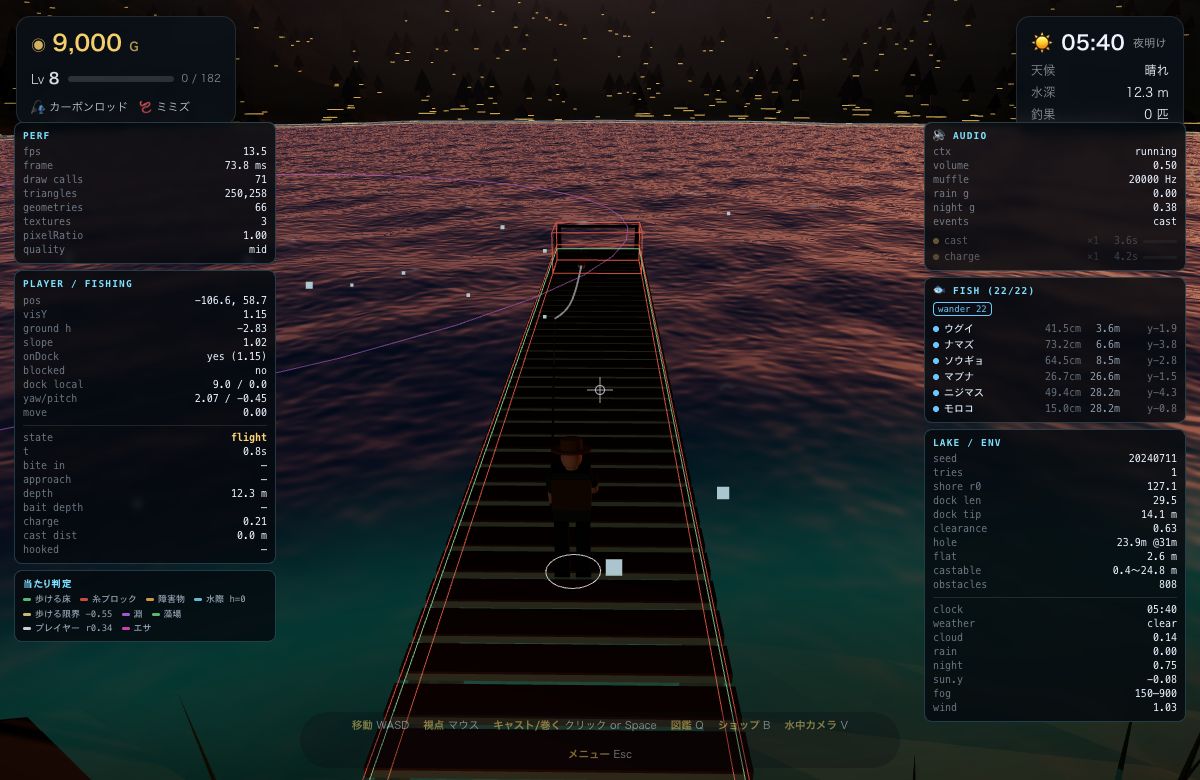
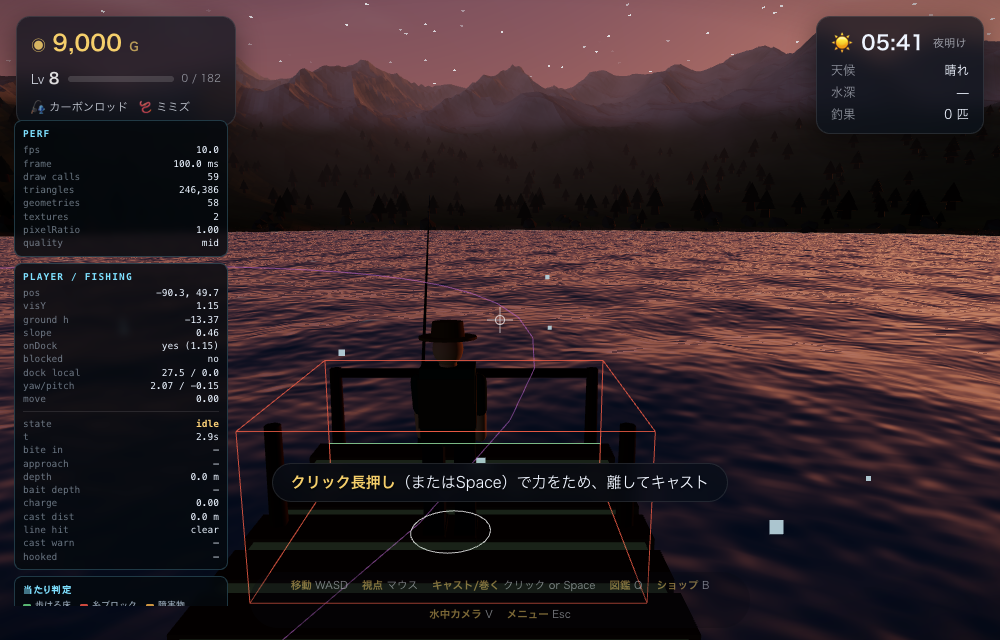
fix: デバッグ表示の障害物の円が壊れていた（配列の読み出し幅の不一致）
糸の判定用に障害物へ上端の高さを持たせたとき、terrain.obstacles は
1件 4要素 [x, z, r, top] になったのに、debug.js の描画ループが 3要素刻みの
ままだった。そのため 2件目以降が

  中心 = (top, 次のx) / 半径 = 次のz（最大 ±150m）

というデタラメな巨大円になり、画面全体が黄色い線で埋まっていた。
判定そのもの（blockedAt / obstacleTopAt）はグリッドの索引経由で
正しく読めていたため、当たり判定の挙動には影響なし（再検証済み）。

- 読み出しを 4要素刻みに修正、件数も /4 に
- あわせて表示を近傍のみに制限（障害物 48m 以内・等高線 140m 以内、2.5Hz で更新）。
  808個すべてを常時描くと線で埋まって読めないため。最大 140 円までの
  固定バッファに詰めて 1 ドローコールを維持
- パネルに「表示数 / 総数」を出し、凡例に表示範囲を明記

検証: 障害物 808件で最大半径 3.38m（正常値）、描画は 17〜30 円に。
当たり判定の回帰テストも再実行し、中心 121/121 進入不可・閉じ込めなし・
糸と桟橋の判定 4/4 正しいことを確認。

diff --git a/src/debug.js b/src/debug.js
@@ -88,7 +88,8 @@ export class Debug {
       row('#ffb84d', '障害物') + row('#7ee0ff', '水際 h=0') +
       row('#ffe08a', '歩ける限界 −0.55') + row('#c86bff', '淵') +
       row('#6de08a', '藻場') + row('#ffffff', 'プレイヤー r0.34') +
-      row('#ff4dd2', 'エサ') + '</div>';
+      row('#ff4dd2', 'エサ') + '</div>'
+      + '<div style="font-size:9px;opacity:.5;margin-top:3px">障害物は 48m 以内・等高線は 140m 以内のみ表示</div>';
     function row(c, t) {
       return `<span class="dbg-lg"><i style="background:${c}"></i>${t}</span>`;
     }
@@ -145,28 +146,24 @@ export class Debug {
     addBox(L / 2, Y - 0.12, L, 0.60);          // 床（桁を含む）
     addBox(L - 1.15, Y + 0.315, 2.3, 1.47);    // 先端の手すり
 
-    /* --- 障害物の円 --- */
-    const obs = t.obstacles;
-    const SEG = 14;
-    const pts = [];
-    for (let i = 0; i < obs.length; i += 3) {
-      const ox = obs[i], oz = obs[i + 1], or = obs[i + 2];
-      const oy = Math.max(t.heightAt(ox, oz), 0) + 0.08;
-      for (let k = 0; k < SEG; k++) {
-        const a0 = (k / SEG) * TAU, a1 = ((k + 1) / SEG) * TAU;
-        pts.push(ox + Math.cos(a0) * or, oy, oz + Math.sin(a0) * or);
-        pts.push(ox + Math.cos(a1) * or, oy, oz + Math.sin(a1) * or);
-      }
-    }
+    /* --- 障害物の円（近くのものだけ毎回作り直す） ---
+       obstacles は 1件 4要素 [x, z, r, top] で並んでいる */
+    this.obstacleCount = t.obstacles.length / 4;
+    this._obsSeg = 14;
+    this._obsMax = 140;
+    const obsBuf = new Float32Array(this._obsMax * this._obsSeg * 2 * 3);
     const obsGeo = new THREE.BufferGeometry();
-    obsGeo.setAttribute('position', new THREE.BufferAttribute(new Float32Array(pts), 3));
-    root.add(new THREE.LineSegments(obsGeo, lineMat(0xffb84d, 0.75)));
-    this.obstacleCount = obs.length / 3;
+    obsGeo.setAttribute('position', new THREE.BufferAttribute(obsBuf, 3));
+    obsGeo.setDrawRange(0, 0);
+    this.obsLines = new THREE.LineSegments(obsGeo, lineMat(0xffb84d, 0.8));
+    this.obsLines.frustumCulled = false;
+    root.add(this.obsLines);
+    this._obsNear = 0;
 
-    /* --- 水際と歩ける限界の等高線 --- */
-    const contour = (targetH, color) => {
-      const N = 300, arr = [];
-      let prev = null;
+    /* --- 水際と歩ける限界の等高線（近い区間だけ描く） --- */
+    const makeContour = (targetH, color) => {
+      const N = 320;
+      const pts = new Float32Array((N + 1) * 3);
       for (let i = 0; i <= N; i++) {
         const ang = (i / N) * TAU;
         const cx = Math.cos(ang), cz = Math.sin(ang);
@@ -176,16 +173,20 @@ export class Debug {
           if (t.heightAt(cx * mid, cz * mid) < targetH) lo = mid; else hi = mid;
         }
         const r = (lo + hi) / 2;
-        const cur = [cx * r, targetH + 0.06, cz * r];
-        if (prev) arr.push(...prev, ...cur);
-        prev = cur;
+        pts[i * 3] = cx * r;
+        pts[i * 3 + 1] = targetH + 0.08;
+        pts[i * 3 + 2] = cz * r;
       }
+      const buf = new Float32Array(N * 2 * 3);
       const geo = new THREE.BufferGeometry();
-      geo.setAttribute('position', new THREE.BufferAttribute(new Float32Array(arr), 3));
-      root.add(new THREE.LineSegments(geo, lineMat(color, 0.6)));
+      geo.setAttribute('position', new THREE.BufferAttribute(buf, 3));
+      geo.setDrawRange(0, 0);
+      const mesh = new THREE.LineSegments(geo, lineMat(color, 0.55));
+      mesh.frustumCulled = false;
+      root.add(mesh);
+      return { pts, buf, mesh, n: N };
     };
-    contour(0, 0x7ee0ff);        // 水際
-    contour(-0.55, 0xffe08a);    // 歩ける限界（これより深いと入れない）
+    this._contours = [makeContour(0, 0x7ee0ff), makeContour(-0.55, 0xffe08a)];
 
     /* --- 地形フィーチャ --- */
     const featRing = (f, color) => {
@@ -235,6 +236,57 @@ export class Debug {
 
     root.traverse((o) => { o.renderOrder = 900; });
     this.built = true;
+    this._rebuildNear();
+  }
+
+  /**
+   * 近くの当たり判定だけを描き直す。
+   * 全部（岩・木 800個近く）を常に描くと画面が線で埋まって読めないため。
+   */
+  _rebuildNear() {
+    const g = this.game;
+    const t = g.terrain;
+    const px = g.pos.x, pz = g.pos.z;
+
+    /* 障害物：半径 48m 以内 */
+    const o = t.obstacles;
+    const SEG = this._obsSeg;
+    const arr = this.obsLines.geometry.attributes.position.array;
+    const R2 = 48 * 48;
+    let n = 0;
+    for (let i = 0; i < o.length && n < this._obsMax; i += 4) {
+      const dx = o[i] - px, dz = o[i + 1] - pz;
+      if (dx * dx + dz * dz > R2) continue;
+      const ox = o[i], oz = o[i + 1], or = o[i + 2];
+      const oy = Math.max(t.heightAt(ox, oz), 0) + 0.1;
+      let w = n * SEG * 6;
+      for (let k = 0; k < SEG; k++) {
+        const a0 = (k / SEG) * TAU, a1 = ((k + 1) / SEG) * TAU;
+        arr[w++] = ox + Math.cos(a0) * or; arr[w++] = oy; arr[w++] = oz + Math.sin(a0) * or;
+        arr[w++] = ox + Math.cos(a1) * or; arr[w++] = oy; arr[w++] = oz + Math.sin(a1) * or;
+      }
+      n++;
+    }
+    this._obsNear = n;
+    this.obsLines.geometry.setDrawRange(0, n * SEG * 2);
+    this.obsLines.geometry.attributes.position.needsUpdate = true;
+
+    /* 等高線：半径 140m 以内の区間だけ */
+    const CR2 = 140 * 140;
+    for (const c of this._contours) {
+      const p = c.pts, b = c.buf;
+      let m = 0;
+      for (let i = 0; i < c.n; i++) {
+        const x0 = p[i * 3], z0 = p[i * 3 + 2];
+        const x1 = p[(i + 1) * 3], z1 = p[(i + 1) * 3 + 2];
+        const mx = (x0 + x1) * 0.5 - px, mz = (z0 + z1) * 0.5 - pz;
+        if (mx * mx + mz * mz > CR2) continue;
+        b[m++] = x0; b[m++] = p[i * 3 + 1]; b[m++] = z0;
+        b[m++] = x1; b[m++] = p[(i + 1) * 3 + 1]; b[m++] = z1;
+      }
+      c.mesh.geometry.setDrawRange(0, m / 3);
+      c.mesh.geometry.attributes.position.needsUpdate = true;
+    }
   }
 
   /* ---------------- トグル ---------------- */
@@ -306,6 +358,13 @@ export class Debug {
       col.needsUpdate = true;
     }
 
+    /* --- 近くの当たり判定は 2.5Hz で作り直す --- */
+    this._nearAcc = (this._nearAcc || 0) + dt;
+    if (this._nearAcc > 0.4) {
+      this._nearAcc = 0;
+      this._rebuildNear();
+    }
+
     /* --- パネルは 10Hz --- */
     this._acc += dt;
     if (this._acc < 0.1) return;
@@ -353,7 +412,7 @@ ${kv('seed', g.state.seed)}${kv('tries', g.lakeTries || 1)}
 ${kv('shore r0', fmt1(S.shoreR0 || 0))}${kv('dock len', fmt1(t._dockLen))}
 ${kv('dock tip', fmt1(S.dockTipDepth || 0) + ' m')}${kv('clearance', fmt2(S.dockClearance || 0))}
 ${kv('hole', `${fmt1(S.holeDepth || 0)}m @${(S.holeFromDock || 0).toFixed(0)}m`)}${kv('flat', fmt1(S.flatDepth || 0) + ' m')}
-${kv('castable', `${fmt1(S.minDepth || 0)}〜${fmt1(S.maxDepth || 0)} m`)}${kv('obstacles', this.obstacleCount || 0)}
+${kv('castable', `${fmt1(S.minDepth || 0)}〜${fmt1(S.maxDepth || 0)} m`)}${kv('obstacles', `${this._obsNear || 0} / ${this.obstacleCount || 0} 表示`)}
 <hr>${kv('clock', fmtClock(g.state.clock))}${kv('weather', env.weather.key)}
 ${kv('cloud', fmt2(env.cloudiness))}${kv('rain', fmt2(env.rainIntensity))}
 ${kv('night', fmt2(env.nightAmount))}${kv('sun.y', fmt2(env.sunDir.y))}
